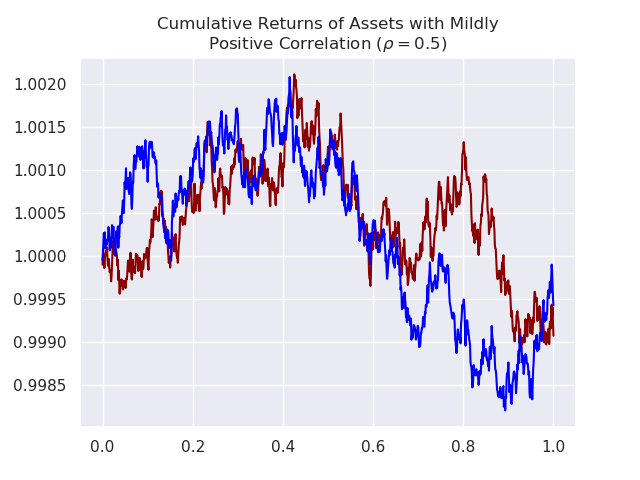
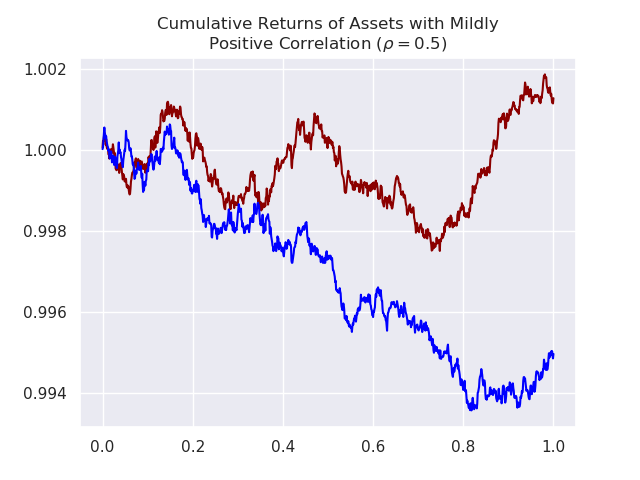
Included problem statement figure.

diff --git a/CovRegpy_CASE_STUDY_covariance.py b/CovRegpy_CASE_STUDY_covariance.py
@@ -22,17 +22,19 @@ corr = 0.5
 points_asset = 304
 time_asset = np.arange(304)
 
-L = np.linalg.cholesky(np.array([[1, corr], [corr, 1]]))
-time_series = np.random.normal(0, 1, (2, points_asset)) * 0.0001
+# L = np.linalg.cholesky(np.array([[1, corr], [corr, 1]]))
+time_series = np.random.normal(0, 1, (100, points_asset)) * 0.0001
 time_series[:, 0] = 0
-time_series = np.matmul(L, time_series)
-plt.title(textwrap.fill(r'Cumulative Returns of Assets with Positive Correlation ($\rho = {}$)'.format(corr), 45))
-plt.plot(time_asset, -np.exp(np.cumsum(time_series[0, :])) + 2, c='darkred')
-plt.plot(time_asset, -np.exp(np.cumsum(time_series[1, :])) + 2, c='blue')
-plt.plot(int(points_asset - 1) * np.ones(101), -np.linspace(0.996, 1.002, 101) + 2, 'k--')
-plt.plot(395 * np.ones(101), -np.linspace(0.996, 1.002, 101) + 2, 'k--')
+# time_series = np.matmul(L, time_series)
+fig = plt.gcf()
+fig.set_size_inches(8, 4.5)
+plt.title(textwrap.fill(r'Cumulative Returns of 100 Assets', 45))
+plt.plot(time_asset, -np.exp(np.cumsum(time_series[:, :], axis=1)).T + 2)
+# plt.plot(time_asset, -np.exp(np.cumsum(time_series[1, :])) + 2, c='blue')
+plt.plot(int(points_asset - 1) * np.ones(101), -np.linspace(0.993, 1.006, 101) + 2, 'k--')
+plt.plot(395 * np.ones(101), -np.linspace(0.993, 1.006, 101) + 2, 'k--')
 plt.fill(np.append(np.linspace(int(points_asset - 1), 395, 101), np.linspace(395, int(points_asset - 1), 101)),
-         -np.append(0.996 * np.ones(101), 1.002 * np.ones(101)) + 2, c='lightcyan')
+         -np.append(0.993 * np.ones(101), 1.006 * np.ones(101)) + 2, c='lightcyan')
 plt.text(338, 1.0009, '?', fontsize=32)
 plt.savefig('/home/cole/Desktop/Cole/Cole Documents/CovRegpy/CovRegpy/figures/covariance_demonstration/corr_asset')
 plt.ylabel('Cumulative Returns')
